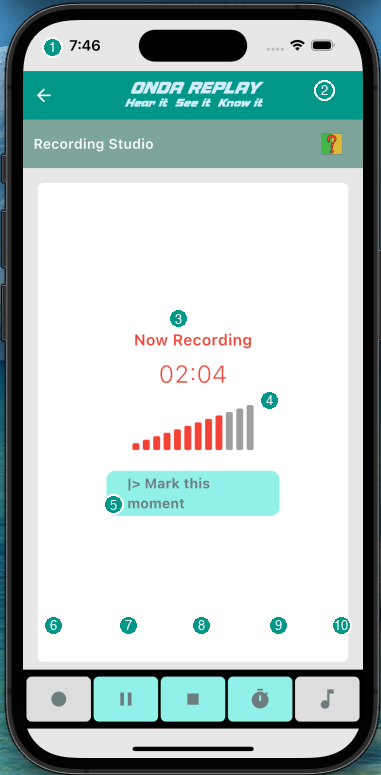
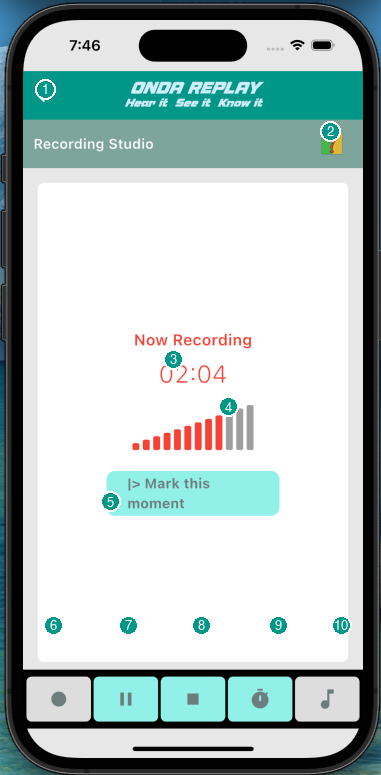
Final refinement: try direction toward image center first
David's last idea, and it resolved the remaining corner cases (1, 2)
that margin-tuning alone couldn't: a control near any edge or corner
always has the least room continuing outward and the most room toward
the middle, so trying that direction first — before the fixed
priority list — is a smarter universal default than any single fixed
direction. Both corner controls now sit clearly inside the boundary.

This closes out the placement-algorithm thread. Remaining minor
imperfections (e.g. a center-point estimate landing slightly into
text) trace back to the center-estimation step, not this algorithm,
and are accepted as within the manual-review escape hatch already
established (reviewer_note on the Presentations record).

diff --git a/tools/place_callouts.py b/tools/place_callouts.py
@@ -143,15 +143,24 @@ def place_callouts(image_path, centers_pct, order, output_path):
             cy = centers_pct[m][1] / 100 * H + shift
             placed.append((m, cx, cy))
 
-    # 2) Everything else — ring search against edge margin + dot spacing
+    # 2) Everything else — ring search against edge margin + dot spacing.
+    # Try "toward the image's own center" first, before the fixed
+    # direction list — a control near any edge or corner always has
+    # the *least* room going further outward and the *most* room going
+    # toward the middle, so this is a smarter first guess than any
+    # single fixed default direction, and it's what actually fixed the
+    # two corner controls that no amount of margin-tuning could.
     for label in order:
         if any(m == label for m, _, _ in placed):
             continue
         px, py = centers_pct[label]
         ctr_x, ctr_y = px / 100 * W, py / 100 * H
+        vx, vy = (W / 2) - ctr_x, (H / 2) - ctr_y
+        vlen = math.hypot(vx, vy) or 1
+        dirs_to_try = [(vx / vlen, vy / vlen)] + DIRS
         chosen = None
         for dist in DIST_OPTIONS:
-            for dx, dy in DIRS:
+            for dx, dy in dirs_to_try:
                 cx, cy = ctr_x + dx * dist, ctr_y + dy * dist
                 if not ((RADIUS + EDGE_MARGIN) <= cx <= W - (RADIUS + EDGE_MARGIN)
                         and (RADIUS + EDGE_MARGIN) <= cy <= H - (RADIUS + EDGE_MARGIN)):
